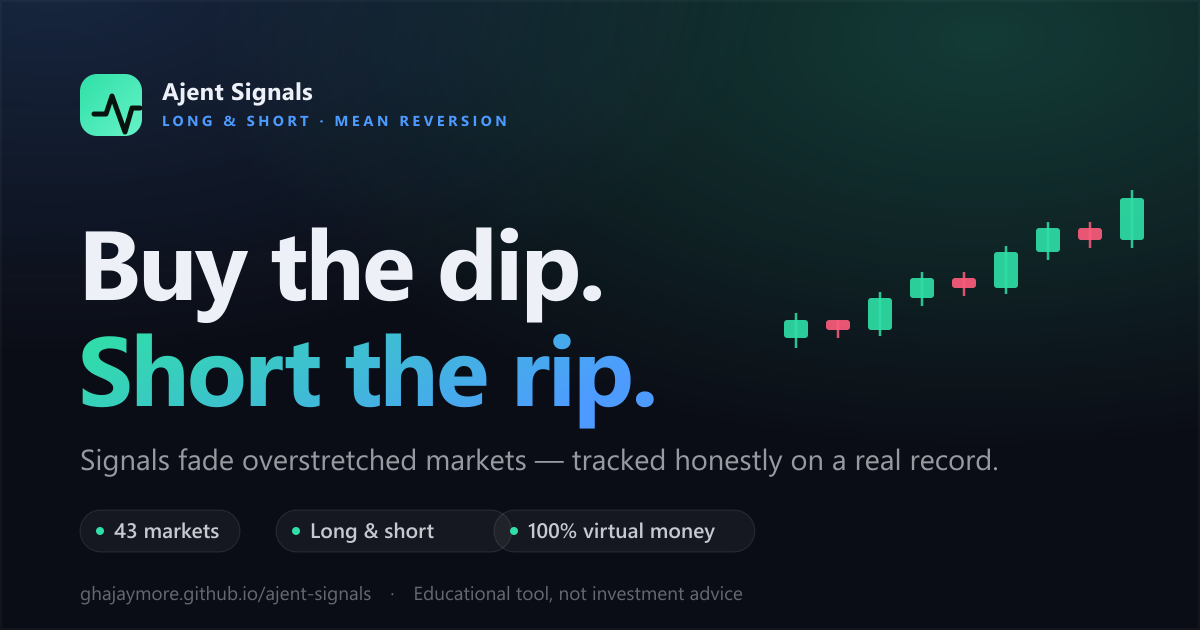
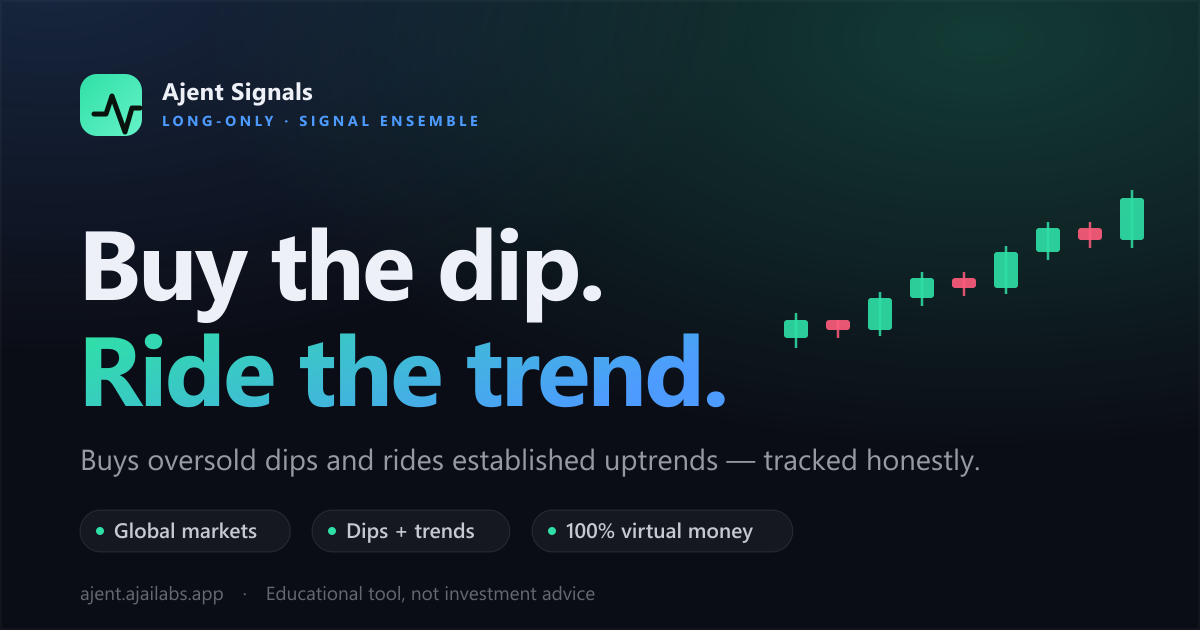
Regenerate social-share OG image to match current positioning
The og-cover (shown when the link is shared) still read 'Buy the dip. Short the rip.'
and 'LONG & SHORT · MEAN REVERSION' — the app is long-only and now a two-edge ensemble,
so the card contradicted the product. It also carried the stale github.io domain.
Updated build-og.js and regenerated the PNG/SVG: 'Buy the dip. Ride the trend.',
'LONG-ONLY · SIGNAL ENSEMBLE', honest chips (Global markets / Dips + trends / 100%
virtual money), and ajent.ajailabs.app. Matches the landing hero.

diff --git a/scripts/build-og.js b/scripts/build-og.js
@@ -66,25 +66,25 @@ const svg = `<svg width="${W}" height="${H}" viewBox="0 0 ${W} ${H}" xmlns="http
     <rect width="62" height="62" rx="17" fill="url(#mk)"/>
     <path d="M14 40 L26 40 L32 22 L45 58 L52 34 L60 34" fill="none" stroke="#08130d" stroke-width="5" stroke-linecap="round" stroke-linejoin="round"/>
     <text x="82" y="26" font-family="${FONT}" font-size="24" font-weight="800" letter-spacing="0.3" fill="#eef0f7">Ajent Signals</text>
-    <text x="82" y="52" font-family="${FONT}" font-size="14.5" font-weight="700" letter-spacing="3.5" fill="#4d9bff">LONG &amp; SHORT · MEAN REVERSION</text>
+    <text x="82" y="52" font-family="${FONT}" font-size="14.5" font-weight="700" letter-spacing="3.5" fill="#4d9bff">LONG-ONLY · SIGNAL ENSEMBLE</text>
   </g>
 
   <!-- headline -->
   <text x="78" y="300" font-family="${FONT}" font-size="98" font-weight="800" letter-spacing="-2.5" fill="#eef0f7">Buy the dip.</text>
-  <text x="78" y="406" font-family="${FONT}" font-size="98" font-weight="800" letter-spacing="-2.5" fill="url(#acc)">Short the rip.</text>
+  <text x="78" y="406" font-family="${FONT}" font-size="98" font-weight="800" letter-spacing="-2.5" fill="url(#acc)">Ride the trend.</text>
 
   <!-- subtitle -->
-  <text x="80" y="470" font-family="${FONT}" font-size="29" font-weight="500" fill="rgba(238,240,247,0.62)">Signals fade overstretched markets &#8212; tracked honestly on a real record.</text>
+  <text x="80" y="470" font-family="${FONT}" font-size="29" font-weight="500" fill="rgba(238,240,247,0.62)">Buys oversold dips and rides established uptrends &#8212; tracked honestly.</text>
 
   <!-- honest chips (no performance claims) -->
   <g transform="translate(80,510)">
-    ${chip(0, '43 markets')}
-    ${chip(196, 'Long &amp; short')}
-    ${chip(414, '100% virtual money')}
+    ${chip(0, 'Global markets')}
+    ${chip(232, 'Dips + trends')}
+    ${chip(452, '100% virtual money')}
   </g>
 
   <!-- footer -->
-  <text x="80" y="600" font-family="${FONT}" font-size="19" font-weight="500" fill="rgba(238,240,247,0.4)">ghajaymore.github.io/ajent-signals&#8195;&#183;&#8195;Educational tool, not investment advice</text>
+  <text x="80" y="600" font-family="${FONT}" font-size="19" font-weight="500" fill="rgba(238,240,247,0.4)">ajent.ajailabs.app&#8195;&#183;&#8195;Educational tool, not investment advice</text>
 </svg>`;
 
 fs.mkdirSync(OUT_DIR, { recursive: true });
